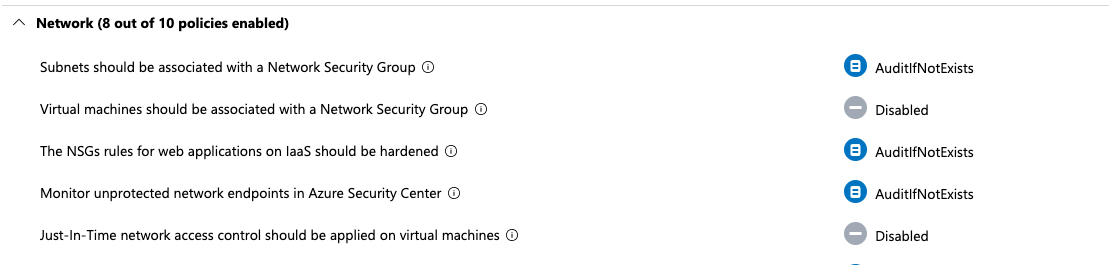
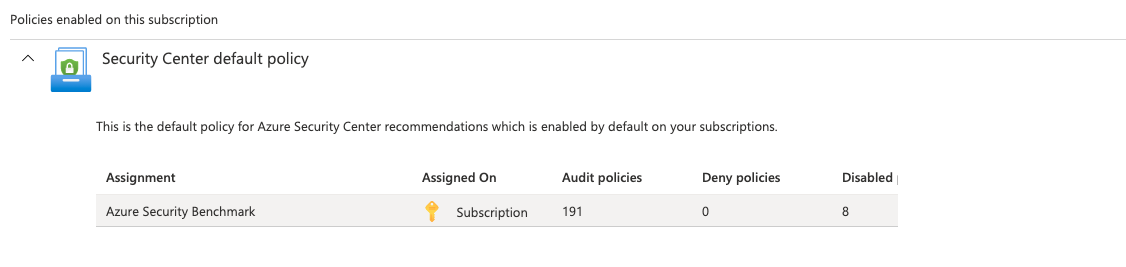
Patch 321-monitor-jit-network-access-updated (#342)
* Update monitor-jit-network-access.md

* Add files via upload

* Add files via upload

* Delete step9.png

* Add files via upload

* Delete step9.png

* Update monitor-jit-network-access.md

* Add files via upload

* Update monitor-jit-network-access.md

* Update monitor-endpoint-protection.md

* Update monitor-jit-network-access.md

diff --git a/en/azure/securitycenter/monitor-jit-network-access.md b/en/azure/securitycenter/monitor-jit-network-access.md
@@ -18,11 +18,13 @@
 
 1. Log into the Microsoft Azure Management Console.
 2. Select the "Search resources, services, and docs" option at the top and search for Security Center. </br> <img src="/resources/azure/securitycenter/monitor-jit-network-access/step2.png"/>
-3. Scroll down the "Security Center" navigation panel and select the "Security policy" option under "POLICY & COMPLIANCE."</br> <img src="/resources/azure/securitycenter/monitor-jit-network-access/step3.png"/>
+3. Scroll down the "Security Center" and select the "Security policy" option under "Management" in the left navigation panel.</br>
 4. On the "Policy Management" page under "Name" column select the "Subscription Name" that needs to be verified.</br> <img src="/resources/azure/securitycenter/monitor-jit-network-access/step4.png"/>
-5. On the "Security Policy" page scroll down the "Network" section and check the "Just-In-Time network access control should be applied on virtual machines". If it's set to "Disabled" then "Monitor JIT Network Access" is not enabled on the selected "Subscription."</br> <img src="/resources/azure/securitycenter/monitor-jit-network-access/step5.png"/>
-6. Repeat steps number 2 - 5 to check other "Subscriptions" under the "Security Center."</br>
-7. Navigate to the "Security Center", select the "Security policy" and under "Policy Management" select the "Subscription" that needs to enable the "Monitor JIT Network Access."</br> <img src="/resources/azure/securitycenter/monitor-jit-network-access/step7.png"/>
-8. Select the "Subscription" link under the "Security policy" at the top to get into the configuration settings. </br> <img src="/resources/azure/securitycenter/monitor-jit-network-access/step8.png"/>
-9. Scroll down the page and under "Network" choose the "Just-In-Time network access control should be applied on virtual machines" and select the "AuditIfNotExists" option from the dropdown menu and click on the "Save" button at the bottom to make the necessary changes.</br> <img src="/resources/azure/securitycenter/monitor-jit-network-access/step9.png"/>
-10. Repeat steps number 7 - 9 to ensure JIT Network Access monitoring is configured for compute and apps from the Azure Security Center.</br>
+5. In the "Security Policy" page scroll down and click on the "Azure Security Benchmark".</br> <img src="/resources/azure/securitycenter/monitor-jit-network-access/step5.png"/>
+6. In the "Azure Security Benchmark" click on the Next button.</br> <img src="/resources/azure/securitycenter/monitor-jit-network-access/step6.png"/>
+7. In the "Azure Security Benchmark", check for the "Management ports of virtual machines should be protected with Just-In-Time network access control" Parameter and if it's set to "Disable" then the encryption is not enabled.</br> <img src="/resources/azure/securitycenter/monitor-jit-network-access/step7.png"/>
+8. Repeat steps number 2 - 7 to check other "Subscriptions" under the "Security Center."</br>
+9. Navigate to the "Security Center", select the "Security policy" and under "Policy Management" select the "Subscription" that needs to enable the "Monitor JIT Network Access."</br> <img src="/resources/azure/securitycenter/monitor-jit-network-access/step9.png"/>
+10. Select the "Subscription" link under the "Security policy" at the top to get into the configuration settings. </br> <img src="/resources/azure/securitycenter/monitor-jit-network-access/step10.png"/>
+11. Scroll down the page and under "Parameter" choose the "Management ports of virtual machines should be protected with Just-In-Time network access control" and select the "AuditIfNotExists" option from the dropdown menu and click on the "Save" button at the bottom to make the necessary changes.</br> <img src="/resources/azure/securitycenter/monitor-jit-network-access/step11.png"/>
+12. Repeat steps number 9 - 11 to ensure JIT Network Access monitoring is configured for compute and apps from the Azure Security Center.</br>

diff --git a/en/azure/securitycenter/monitor-endpoint-protection.md b/en/azure/securitycenter/monitor-endpoint-protection.md
@@ -18,7 +18,7 @@
 
 1. Log into the Microsoft Azure Management Console.
 2. Select the "Search resources, services, and docs" option at the top and search for Security Center. </br> <img src="/resources/azure/securitycenter/monitor-endpoint-protection/step2.png"/>
-3. Scroll down the "Security Center" navigation panel and select the "Security policy" option under "POLICY & COMPLIANCE."</br> <img src="/resources/azure/securitycenter/monitor-endpoint-protection/step3.png"/>
+3. Scroll down the "Security Center" navigation panel and select the "Security policy" option under the "Management" on left navigation panel.</br>
 4. On the "Policy Management" page under "Name" column select the "Subscription Name" that needs to be verified.</br> <img src="/resources/azure/securitycenter/monitor-endpoint-protection/step4.png"/>
 5. On the "Security Policy" page scroll down the "Compute and Apps" section and check the "Monitor missing Endpoint Protection in Azure Security Center". If it's set to "Disabled" then "Monitor Endpoint Protection" is not enabled on the selected "Subscription."</br> <img src="/resources/azure/securitycenter/monitor-endpoint-protection/step5.png"/>
 6. Repeat steps number 2 - 5 to check other "Subscriptions" under the "Security Center."</br>
